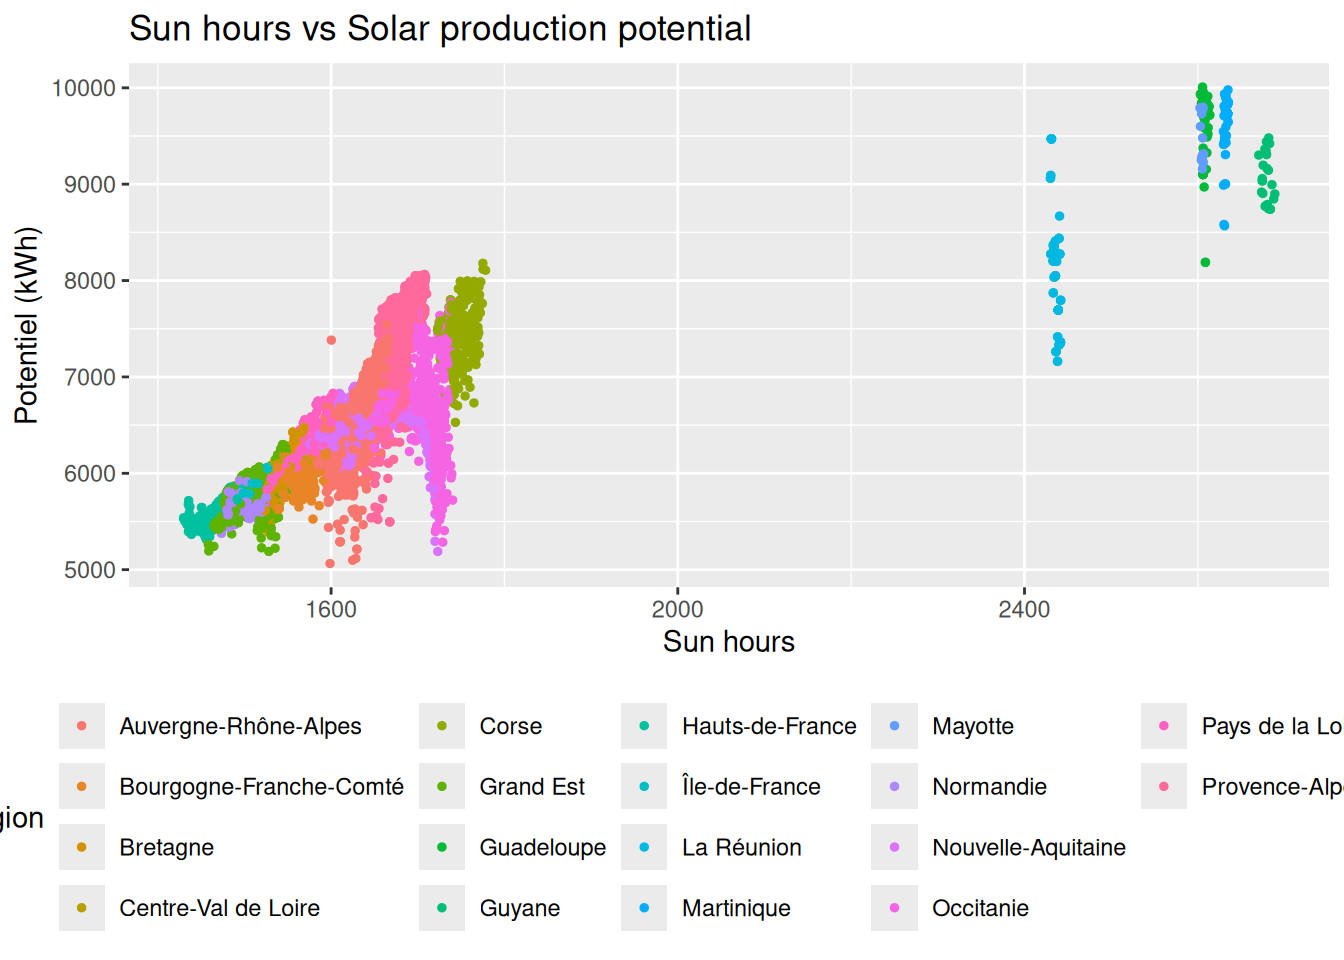
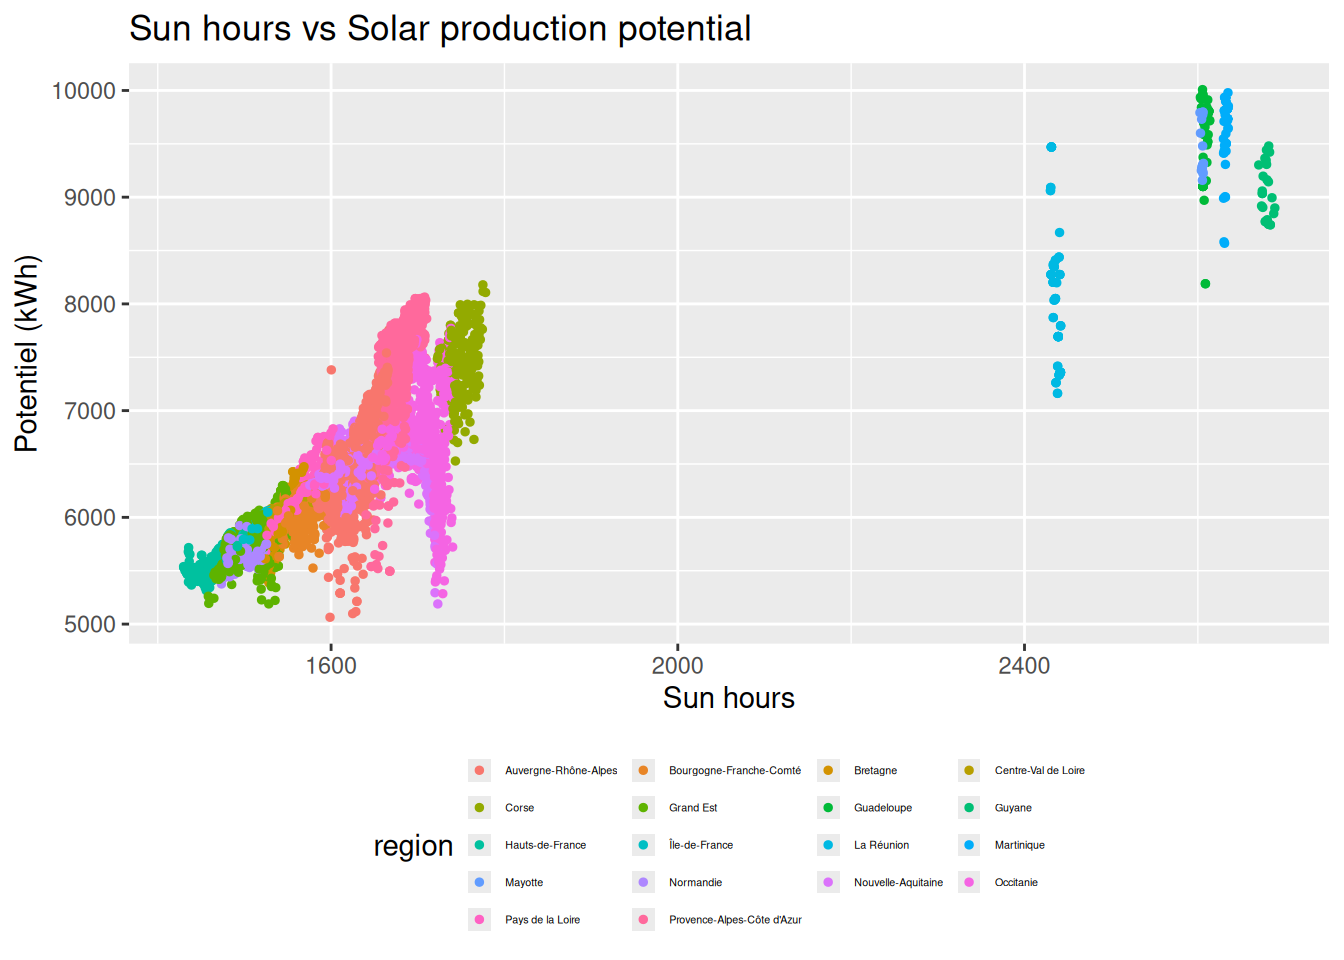
Built site for gh-pages

diff --git a/chapters/01-EDA.html b/chapters/01-EDA.html
@@ -553,47 +553,60 @@ div.csl-indent {
 <span id="cb20-3"><a href="#cb20-3" aria-hidden="true" tabindex="-1"></a>  <span class="fu">geom_point</span>(<span class="at">size =</span> <span class="dv">1</span>) <span class="sc">+</span></span>
 <span id="cb20-4"><a href="#cb20-4" aria-hidden="true" tabindex="-1"></a>  <span class="fu">labs</span>(<span class="at">title =</span> <span class="st">"Sun hours vs Solar production potential"</span>,</span>
 <span id="cb20-5"><a href="#cb20-5" aria-hidden="true" tabindex="-1"></a>       <span class="at">x =</span> <span class="st">"Sun hours"</span>, <span class="at">y =</span> <span class="st">"Potentiel (kWh)"</span>)<span class="sc">+</span></span>
-<span id="cb20-6"><a href="#cb20-6" aria-hidden="true" tabindex="-1"></a>  <span class="fu">theme</span>(<span class="at">legend.position =</span> <span class="st">"bottom"</span>)</span>
-<span id="cb20-7"><a href="#cb20-7" aria-hidden="true" tabindex="-1"></a></span>
-<span id="cb20-8"><a href="#cb20-8" aria-hidden="true" tabindex="-1"></a><span class="fu">ggplot</span>(df, <span class="fu">aes</span>(<span class="at">x =</span> avg_temp, <span class="at">y =</span> potentiel_kwh, <span class="at">color =</span> region)) <span class="sc">+</span></span>
-<span id="cb20-9"><a href="#cb20-9" aria-hidden="true" tabindex="-1"></a>  <span class="fu">geom_point</span>(<span class="at">size =</span> <span class="dv">1</span>) <span class="sc">+</span></span>
-<span id="cb20-10"><a href="#cb20-10" aria-hidden="true" tabindex="-1"></a>  <span class="fu">labs</span>(<span class="at">title =</span> <span class="st">"average temperature vs Solar production potential"</span>,</span>
-<span id="cb20-11"><a href="#cb20-11" aria-hidden="true" tabindex="-1"></a>       <span class="at">x =</span> <span class="st">"average temperature"</span>, <span class="at">y =</span> <span class="st">"Potentiel (kWh)"</span>)<span class="sc">+</span></span>
-<span id="cb20-12"><a href="#cb20-12" aria-hidden="true" tabindex="-1"></a>  <span class="fu">theme</span>(<span class="at">legend.position =</span> <span class="st">"bottom"</span>)</span>
-<span id="cb20-13"><a href="#cb20-13" aria-hidden="true" tabindex="-1"></a></span>
-<span id="cb20-14"><a href="#cb20-14" aria-hidden="true" tabindex="-1"></a></span>
-<span id="cb20-15"><a href="#cb20-15" aria-hidden="true" tabindex="-1"></a><span class="fu">ggplot</span>(df, <span class="fu">aes</span>(<span class="at">x =</span> region, <span class="at">y =</span> irradiation, <span class="at">fill =</span> climat)) <span class="sc">+</span><span class="fu">geom_boxplot</span>(<span class="at">notch =</span> <span class="cn">FALSE</span>,</span>
-<span id="cb20-16"><a href="#cb20-16" aria-hidden="true" tabindex="-1"></a>    <span class="at">outlier.color =</span> <span class="st">"purple"</span>,</span>
-<span id="cb20-17"><a href="#cb20-17" aria-hidden="true" tabindex="-1"></a>    <span class="at">outlier.shape =</span> <span class="dv">8</span>,</span>
-<span id="cb20-18"><a href="#cb20-18" aria-hidden="true" tabindex="-1"></a>    <span class="at">outlier.size =</span> <span class="dv">2</span>,</span>
-<span id="cb20-19"><a href="#cb20-19" aria-hidden="true" tabindex="-1"></a>    <span class="at">alpha =</span> <span class="fl">0.7</span>)<span class="sc">+</span></span>
-<span id="cb20-20"><a href="#cb20-20" aria-hidden="true" tabindex="-1"></a>  <span class="fu">labs</span>(<span class="at">title =</span> <span class="st">"Irradiation distribution"</span>,</span>
-<span id="cb20-21"><a href="#cb20-21" aria-hidden="true" tabindex="-1"></a>       <span class="at">x =</span> <span class="st">"Region"</span>,</span>
-<span id="cb20-22"><a href="#cb20-22" aria-hidden="true" tabindex="-1"></a>       <span class="at">y =</span> <span class="st">"Irradiation"</span>) <span class="sc">+</span></span>
-<span id="cb20-23"><a href="#cb20-23" aria-hidden="true" tabindex="-1"></a>  <span class="fu">theme_minimal</span>()</span>
-<span id="cb20-24"><a href="#cb20-24" aria-hidden="true" tabindex="-1"></a></span>
-<span id="cb20-25"><a href="#cb20-25" aria-hidden="true" tabindex="-1"></a></span>
-<span id="cb20-26"><a href="#cb20-26" aria-hidden="true" tabindex="-1"></a></span>
-<span id="cb20-27"><a href="#cb20-27" aria-hidden="true" tabindex="-1"></a><span class="fu">library</span>(pheatmap)</span>
-<span id="cb20-28"><a href="#cb20-28" aria-hidden="true" tabindex="-1"></a></span>
-<span id="cb20-29"><a href="#cb20-29" aria-hidden="true" tabindex="-1"></a></span>
-<span id="cb20-30"><a href="#cb20-30" aria-hidden="true" tabindex="-1"></a>num_df <span class="ot">&lt;-</span> df[, <span class="fu">sapply</span>(df, is.numeric)]</span>
-<span id="cb20-31"><a href="#cb20-31" aria-hidden="true" tabindex="-1"></a>num_df <span class="ot">&lt;-</span> num_df[, <span class="fu">apply</span>(num_df, <span class="dv">2</span>, <span class="cf">function</span>(x) <span class="fu">sd</span>(x, <span class="at">na.rm =</span> <span class="cn">TRUE</span>) <span class="sc">!=</span> <span class="dv">0</span>)]</span>
-<span id="cb20-32"><a href="#cb20-32" aria-hidden="true" tabindex="-1"></a>num_df<span class="ot">&lt;-</span>num_df[,<span class="fu">c</span>(<span class="dv">2</span>,<span class="dv">3</span>,<span class="dv">4</span>,<span class="dv">17</span>,<span class="dv">18</span>,<span class="dv">19</span>,<span class="dv">20</span>,<span class="dv">21</span>,<span class="dv">22</span>,<span class="dv">23</span>,<span class="dv">24</span>,<span class="dv">25</span>)]</span>
-<span id="cb20-33"><a href="#cb20-33" aria-hidden="true" tabindex="-1"></a></span>
-<span id="cb20-34"><a href="#cb20-34" aria-hidden="true" tabindex="-1"></a></span>
+<span id="cb20-6"><a href="#cb20-6" aria-hidden="true" tabindex="-1"></a>  <span class="fu">theme</span>(<span class="at">legend.position =</span> <span class="st">"bottom"</span>,    </span>
+<span id="cb20-7"><a href="#cb20-7" aria-hidden="true" tabindex="-1"></a>  <span class="at">legend.text =</span> <span class="fu">element_text</span>(<span class="at">size =</span> <span class="dv">4</span>),    </span>
+<span id="cb20-8"><a href="#cb20-8" aria-hidden="true" tabindex="-1"></a>    <span class="at">legend.key.size =</span> <span class="fu">unit</span>(<span class="fl">0.3</span>, <span class="st">"cm"</span>),      </span>
+<span id="cb20-9"><a href="#cb20-9" aria-hidden="true" tabindex="-1"></a>    <span class="at">legend.spacing.x =</span> <span class="fu">unit</span>(<span class="fl">0.1</span>, <span class="st">"cm"</span>))<span class="sc">+</span></span>
+<span id="cb20-10"><a href="#cb20-10" aria-hidden="true" tabindex="-1"></a>  <span class="fu">guides</span>(<span class="at">color =</span> <span class="fu">guide_legend</span>(<span class="at">nrow =</span> <span class="dv">5</span>, <span class="at">byrow =</span> <span class="cn">TRUE</span>)) </span>
+<span id="cb20-11"><a href="#cb20-11" aria-hidden="true" tabindex="-1"></a></span>
+<span id="cb20-12"><a href="#cb20-12" aria-hidden="true" tabindex="-1"></a><span class="fu">ggplot</span>(df, <span class="fu">aes</span>(<span class="at">x =</span> avg_temp, <span class="at">y =</span> potentiel_kwh, <span class="at">color =</span> region)) <span class="sc">+</span></span>
+<span id="cb20-13"><a href="#cb20-13" aria-hidden="true" tabindex="-1"></a>  <span class="fu">geom_point</span>(<span class="at">size =</span> <span class="dv">1</span>) <span class="sc">+</span></span>
+<span id="cb20-14"><a href="#cb20-14" aria-hidden="true" tabindex="-1"></a>  <span class="fu">labs</span>(<span class="at">title =</span> <span class="st">"average temperature vs Solar production potential"</span>,</span>
+<span id="cb20-15"><a href="#cb20-15" aria-hidden="true" tabindex="-1"></a>       <span class="at">x =</span> <span class="st">"average temperature"</span>, <span class="at">y =</span> <span class="st">"Potentiel (kWh)"</span>)<span class="sc">+</span></span>
+<span id="cb20-16"><a href="#cb20-16" aria-hidden="true" tabindex="-1"></a>  <span class="fu">theme</span>(<span class="at">legend.position =</span> <span class="st">"bottom"</span>,    </span>
+<span id="cb20-17"><a href="#cb20-17" aria-hidden="true" tabindex="-1"></a>  <span class="at">legend.text =</span> <span class="fu">element_text</span>(<span class="at">size =</span> <span class="dv">4</span>),    </span>
+<span id="cb20-18"><a href="#cb20-18" aria-hidden="true" tabindex="-1"></a>    <span class="at">legend.key.size =</span> <span class="fu">unit</span>(<span class="fl">0.3</span>, <span class="st">"cm"</span>),      </span>
+<span id="cb20-19"><a href="#cb20-19" aria-hidden="true" tabindex="-1"></a>    <span class="at">legend.spacing.x =</span> <span class="fu">unit</span>(<span class="fl">0.1</span>, <span class="st">"cm"</span>))<span class="sc">+</span></span>
+<span id="cb20-20"><a href="#cb20-20" aria-hidden="true" tabindex="-1"></a>  <span class="fu">guides</span>(<span class="at">color =</span> <span class="fu">guide_legend</span>(<span class="at">nrow =</span> <span class="dv">5</span>, <span class="at">byrow =</span> <span class="cn">TRUE</span>)) </span>
+<span id="cb20-21"><a href="#cb20-21" aria-hidden="true" tabindex="-1"></a></span>
+<span id="cb20-22"><a href="#cb20-22" aria-hidden="true" tabindex="-1"></a></span>
+<span id="cb20-23"><a href="#cb20-23" aria-hidden="true" tabindex="-1"></a><span class="fu">ggplot</span>(df, <span class="fu">aes</span>(<span class="at">x =</span> region, <span class="at">y =</span> irradiation, <span class="at">fill =</span> climat)) <span class="sc">+</span></span>
+<span id="cb20-24"><a href="#cb20-24" aria-hidden="true" tabindex="-1"></a>  <span class="fu">geom_boxplot</span>(<span class="at">notch =</span> <span class="cn">FALSE</span>,</span>
+<span id="cb20-25"><a href="#cb20-25" aria-hidden="true" tabindex="-1"></a>    <span class="at">outlier.color =</span> <span class="st">"purple"</span>,</span>
+<span id="cb20-26"><a href="#cb20-26" aria-hidden="true" tabindex="-1"></a>    <span class="at">outlier.shape =</span> <span class="dv">8</span>,</span>
+<span id="cb20-27"><a href="#cb20-27" aria-hidden="true" tabindex="-1"></a>    <span class="at">outlier.size =</span> <span class="dv">2</span>,</span>
+<span id="cb20-28"><a href="#cb20-28" aria-hidden="true" tabindex="-1"></a>    <span class="at">alpha =</span> <span class="fl">0.7</span>) <span class="sc">+</span></span>
+<span id="cb20-29"><a href="#cb20-29" aria-hidden="true" tabindex="-1"></a>  <span class="fu">labs</span>(<span class="at">title =</span> <span class="st">"Irradiation distribution"</span>,</span>
+<span id="cb20-30"><a href="#cb20-30" aria-hidden="true" tabindex="-1"></a>       <span class="at">x =</span> <span class="st">"Region"</span>,</span>
+<span id="cb20-31"><a href="#cb20-31" aria-hidden="true" tabindex="-1"></a>       <span class="at">y =</span> <span class="st">"Irradiation"</span>) <span class="sc">+</span></span>
+<span id="cb20-32"><a href="#cb20-32" aria-hidden="true" tabindex="-1"></a>  <span class="fu">theme_minimal</span>() <span class="sc">+</span></span>
+<span id="cb20-33"><a href="#cb20-33" aria-hidden="true" tabindex="-1"></a>  <span class="fu">theme</span>(</span>
+<span id="cb20-34"><a href="#cb20-34" aria-hidden="true" tabindex="-1"></a>    <span class="at">axis.text.x =</span> <span class="fu">element_text</span>(<span class="at">angle =</span> <span class="dv">45</span>, <span class="at">hjust =</span> <span class="dv">1</span>, <span class="at">size =</span> <span class="dv">7</span>),</span>
 <span id="cb20-35"><a href="#cb20-35" aria-hidden="true" tabindex="-1"></a></span>
-<span id="cb20-36"><a href="#cb20-36" aria-hidden="true" tabindex="-1"></a>cor_mat <span class="ot">&lt;-</span> <span class="fu">cor</span>(num_df, <span class="at">use =</span> <span class="st">"pairwise.complete.obs"</span>)</span>
-<span id="cb20-37"><a href="#cb20-37" aria-hidden="true" tabindex="-1"></a></span>
+<span id="cb20-36"><a href="#cb20-36" aria-hidden="true" tabindex="-1"></a>    </span>
+<span id="cb20-37"><a href="#cb20-37" aria-hidden="true" tabindex="-1"></a>  )</span>
 <span id="cb20-38"><a href="#cb20-38" aria-hidden="true" tabindex="-1"></a></span>
 <span id="cb20-39"><a href="#cb20-39" aria-hidden="true" tabindex="-1"></a></span>
-<span id="cb20-40"><a href="#cb20-40" aria-hidden="true" tabindex="-1"></a><span class="fu">pheatmap</span>(cor_mat,</span>
-<span id="cb20-41"><a href="#cb20-41" aria-hidden="true" tabindex="-1"></a>         <span class="at">cluster_rows =</span> <span class="cn">TRUE</span>,</span>
-<span id="cb20-42"><a href="#cb20-42" aria-hidden="true" tabindex="-1"></a>         <span class="at">cluster_cols =</span> <span class="cn">TRUE</span>,</span>
-<span id="cb20-43"><a href="#cb20-43" aria-hidden="true" tabindex="-1"></a>         <span class="at">display_numbers =</span> <span class="cn">TRUE</span>,</span>
-<span id="cb20-44"><a href="#cb20-44" aria-hidden="true" tabindex="-1"></a>         <span class="at">number_format =</span> <span class="st">"%.2f"</span>,</span>
-<span id="cb20-45"><a href="#cb20-45" aria-hidden="true" tabindex="-1"></a>         <span class="at">color =</span> <span class="fu">colorRampPalette</span>(<span class="fu">c</span>(<span class="st">"navy"</span>, <span class="st">"white"</span>, <span class="st">"firebrick3"</span>))(<span class="dv">50</span>),</span>
-<span id="cb20-46"><a href="#cb20-46" aria-hidden="true" tabindex="-1"></a>         <span class="at">main =</span> <span class="st">"Correlation Heatmap"</span>)</span></code></pre></div><button title="Copy to Clipboard" class="code-copy-button"><i class="bi"></i></button></div>
+<span id="cb20-40"><a href="#cb20-40" aria-hidden="true" tabindex="-1"></a><span class="fu">library</span>(pheatmap)</span>
+<span id="cb20-41"><a href="#cb20-41" aria-hidden="true" tabindex="-1"></a></span>
+<span id="cb20-42"><a href="#cb20-42" aria-hidden="true" tabindex="-1"></a></span>
+<span id="cb20-43"><a href="#cb20-43" aria-hidden="true" tabindex="-1"></a>num_df <span class="ot">&lt;-</span> df[, <span class="fu">sapply</span>(df, is.numeric)]</span>
+<span id="cb20-44"><a href="#cb20-44" aria-hidden="true" tabindex="-1"></a>num_df <span class="ot">&lt;-</span> num_df[, <span class="fu">apply</span>(num_df, <span class="dv">2</span>, <span class="cf">function</span>(x) <span class="fu">sd</span>(x, <span class="at">na.rm =</span> <span class="cn">TRUE</span>) <span class="sc">!=</span> <span class="dv">0</span>)]</span>
+<span id="cb20-45"><a href="#cb20-45" aria-hidden="true" tabindex="-1"></a>num_df<span class="ot">&lt;-</span>num_df[,<span class="fu">c</span>(<span class="dv">2</span>,<span class="dv">3</span>,<span class="dv">4</span>,<span class="dv">17</span>,<span class="dv">18</span>,<span class="dv">19</span>,<span class="dv">20</span>,<span class="dv">21</span>,<span class="dv">22</span>,<span class="dv">23</span>,<span class="dv">24</span>,<span class="dv">25</span>)]</span>
+<span id="cb20-46"><a href="#cb20-46" aria-hidden="true" tabindex="-1"></a></span>
+<span id="cb20-47"><a href="#cb20-47" aria-hidden="true" tabindex="-1"></a></span>
+<span id="cb20-48"><a href="#cb20-48" aria-hidden="true" tabindex="-1"></a></span>
+<span id="cb20-49"><a href="#cb20-49" aria-hidden="true" tabindex="-1"></a>cor_mat <span class="ot">&lt;-</span> <span class="fu">cor</span>(num_df, <span class="at">use =</span> <span class="st">"pairwise.complete.obs"</span>)</span>
+<span id="cb20-50"><a href="#cb20-50" aria-hidden="true" tabindex="-1"></a></span>
+<span id="cb20-51"><a href="#cb20-51" aria-hidden="true" tabindex="-1"></a></span>
+<span id="cb20-52"><a href="#cb20-52" aria-hidden="true" tabindex="-1"></a></span>
+<span id="cb20-53"><a href="#cb20-53" aria-hidden="true" tabindex="-1"></a><span class="fu">pheatmap</span>(cor_mat,</span>
+<span id="cb20-54"><a href="#cb20-54" aria-hidden="true" tabindex="-1"></a>         <span class="at">cluster_rows =</span> <span class="cn">TRUE</span>,</span>
+<span id="cb20-55"><a href="#cb20-55" aria-hidden="true" tabindex="-1"></a>         <span class="at">cluster_cols =</span> <span class="cn">TRUE</span>,</span>
+<span id="cb20-56"><a href="#cb20-56" aria-hidden="true" tabindex="-1"></a>         <span class="at">display_numbers =</span> <span class="cn">TRUE</span>,</span>
+<span id="cb20-57"><a href="#cb20-57" aria-hidden="true" tabindex="-1"></a>         <span class="at">number_format =</span> <span class="st">"%.2f"</span>,</span>
+<span id="cb20-58"><a href="#cb20-58" aria-hidden="true" tabindex="-1"></a>         <span class="at">color =</span> <span class="fu">colorRampPalette</span>(<span class="fu">c</span>(<span class="st">"navy"</span>, <span class="st">"white"</span>, <span class="st">"firebrick3"</span>))(<span class="dv">50</span>),</span>
+<span id="cb20-59"><a href="#cb20-59" aria-hidden="true" tabindex="-1"></a>         <span class="at">main =</span> <span class="st">"Correlation Heatmap"</span>)</span></code></pre></div><button title="Copy to Clipboard" class="code-copy-button"><i class="bi"></i></button></div>
 <div class="cell-output-display page-columns page-full">
 <div id="fig-main-1" class="quarto-float quarto-figure quarto-figure-center anchored page-columns page-full">
 <figure class="quarto-float quarto-float-fig figure page-columns page-full">
@@ -601,7 +614,7 @@ div.csl-indent {
 <img src="01-EDA_files/figure-html/fig-main-1.png" class="img-fluid figure-img" width="672">
 </div>
 <figcaption class="quarto-float-caption-margin quarto-float-caption quarto-float-fig margin-caption" id="fig-main-1-caption-0ceaefa1-69ba-4598-a22c-09a6ac19f8ca">
-Figure&nbsp;2.1: The central figure of your analysis.
+Figure&nbsp;2.1: The central figure of My analysis.
 </figcaption>
 </figure>
 </div>
@@ -613,7 +626,7 @@ Figure&nbsp;2.1: The central figure of your analysis.
 <img src="01-EDA_files/figure-html/fig-main-2.png" class="img-fluid figure-img" width="672">
 </div>
 <figcaption class="quarto-float-caption-margin quarto-float-caption quarto-float-fig margin-caption" id="fig-main-2-caption-0ceaefa1-69ba-4598-a22c-09a6ac19f8ca">
-Figure&nbsp;2.2: The central figure of your analysis.
+Figure&nbsp;2.2: The central figure of My analysis.
 </figcaption>
 </figure>
 </div>
@@ -625,7 +638,7 @@ Figure&nbsp;2.2: The central figure of your analysis.
 <img src="01-EDA_files/figure-html/fig-main-3.png" class="img-fluid figure-img" width="672">
 </div>
 <figcaption class="quarto-float-caption-margin quarto-float-caption quarto-float-fig margin-caption" id="fig-main-3-caption-0ceaefa1-69ba-4598-a22c-09a6ac19f8ca">
-Figure&nbsp;2.3: The central figure of your analysis.
+Figure&nbsp;2.3: The central figure of My analysis.
 </figcaption>
 </figure>
 </div>
@@ -637,7 +650,7 @@ Figure&nbsp;2.3: The central figure of your analysis.
 <img src="01-EDA_files/figure-html/fig-main-4.png" class="img-fluid figure-img" width="672">
 </div>
 <figcaption class="quarto-float-caption-margin quarto-float-caption quarto-float-fig margin-caption" id="fig-main-4-caption-0ceaefa1-69ba-4598-a22c-09a6ac19f8ca">
-Figure&nbsp;2.4: The central figure of your analysis.
+Figure&nbsp;2.4: The central figure of My analysis.
 </figcaption>
 </figure>
 </div>
